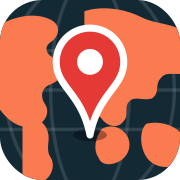
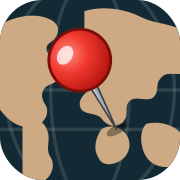
아이콘: 연갈색 땅 + 푸시핀, 하단 버튼을 아이콘 버튼으로 통일
Claude-Session: https://claude.ai/code/session_01GrEmAEExUrroKv66nYvNJS

diff --git a/index.html b/index.html
@@ -92,11 +92,11 @@ select,input{min-height:44px;border:1px solid var(--line);background:var(--bg);b
 .row{display:flex;gap:8px;margin-top:8px}
 details{font-size:15px}summary{cursor:pointer;color:var(--mute);min-height:32px}
 textarea{width:100%;min-height:90px;font:13px/1.4 monospace;border:1px solid var(--line);border-radius:10px;background:var(--bg);color:inherit;padding:8px}
-.fab{position:fixed;right:16px;bottom:16px;z-index:20;box-shadow:0 6px 20px #0003;font-weight:700;background:var(--acc);border-color:var(--acc);color:var(--acc-ink)}
-.fab2{bottom:72px}.fab3{bottom:128px}.fab{min-width:112px}.fab.fab3{min-width:0;width:44px;height:44px;padding:0;display:grid;place-items:center;border-radius:12px;background:var(--bg);border:1px solid var(--line);color:var(--ink)}.fab3 svg{width:22px;height:22px}
+.fab{position:fixed;right:16px;bottom:16px;z-index:20;box-shadow:0 6px 20px #0003;width:46px;height:46px;min-height:46px;padding:0;display:grid;place-items:center;border-radius:13px;background:var(--bg);border:1px solid var(--line);color:var(--ink)}
+.fab:hover{border-color:var(--acc)}.fab svg{width:22px;height:22px}.fab2{bottom:70px}.fab3{bottom:124px}
 .sm{position:fixed;inset:0;z-index:30;background:#0006;display:none;align-items:center;justify-content:center;padding:16px}.sm.open{display:flex}
 .smb{background:var(--bg);border-radius:16px;padding:20px;width:min(380px,100%);box-shadow:0 20px 60px #0005}
-.tp{position:fixed;right:16px;bottom:184px;z-index:20;width:min(300px,calc(100vw - 32px));background:var(--bg);border:1px solid var(--line);border-radius:14px;padding:16px;box-shadow:0 12px 40px #0004;display:none}
+.tp{position:fixed;right:72px;bottom:16px;z-index:20;width:min(300px,calc(100vw - 32px));background:var(--bg);border:1px solid var(--line);border-radius:14px;padding:16px;box-shadow:0 12px 40px #0004;display:none}
 .tp.open{display:block}
 .tp h2{font-size:17px;margin-bottom:8px}
 .tp label{display:grid;grid-template-columns:1fr 56px 78px;align-items:center;gap:10px;padding:6px 0;font-size:15px}
@@ -142,8 +142,8 @@ textarea{width:100%;min-height:90px;font:13px/1.4 monospace;border:1px solid var
   </aside>
 </div>
 <button class="fab fab3" id="thb" type="button" aria-label="화면 모드 바꾸기"></button>
-<button class="fab fab2" id="shb" type="button">지도 공유</button>
-<button class="fab" id="fab" aria-expanded="false" aria-controls="tp">색 설정</button>
+<button class="fab fab2" id="shb" type="button" aria-label="지도 공유" title="지도 공유 (PNG 저장)"><svg viewBox="0 0 24 24" fill="none" stroke="currentColor" stroke-width="2" stroke-linecap="round" stroke-linejoin="round"><path d="M12 3v12"/><path d="M7.5 7.5 12 3l4.5 4.5"/><path d="M5 12v6.5A2.5 2.5 0 0 0 7.5 21h9a2.5 2.5 0 0 0 2.5-2.5V12"/></svg></button>
+<button class="fab" id="fab" aria-expanded="false" aria-controls="tp" aria-label="색 설정" title="색 설정"><svg viewBox="0 0 24 24" fill="none" stroke="currentColor" stroke-width="2" stroke-linejoin="round"><path d="M12 3a9 9 0 1 0 0 18c1.4 0 2.2-1 2.2-2.1 0-.6-.3-1.1-.6-1.5-.3-.4-.6-.9-.6-1.5 0-1.2 1-2 2.2-2H17a4 4 0 0 0 4-4c0-3.9-4-6.9-9-6.9z"/><circle cx="7.5" cy="11" r="1.3" fill="currentColor" stroke="none"/><circle cx="10.5" cy="7" r="1.3" fill="currentColor" stroke="none"/><circle cx="15" cy="7.5" r="1.3" fill="currentColor" stroke="none"/></svg></button>
 <div class="sm" id="sm"><form class="smb" id="smf" role="dialog" aria-label="지도 공유">
   <h2>지도 공유</h2>
   <p class="en" style="margin:4px 0 12px">지금 보이는 만큼의 지도와 정복한 곳 목록을 PNG 이미지로 저장해요.</p>
